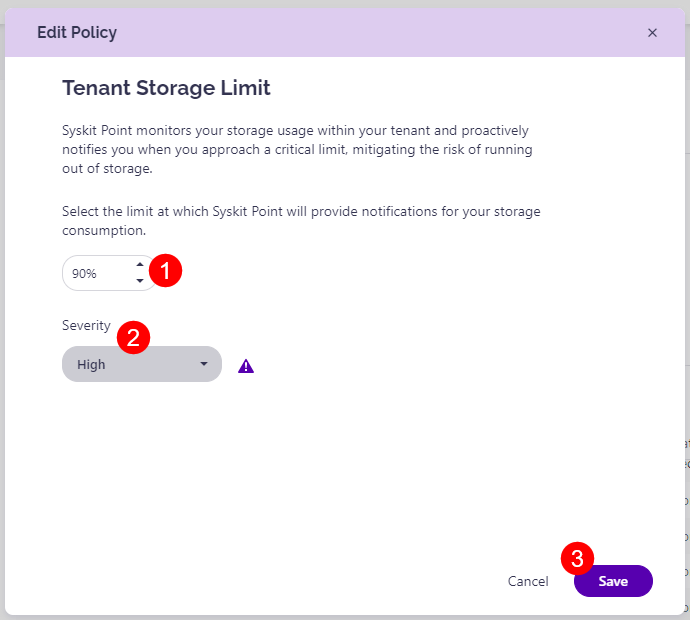
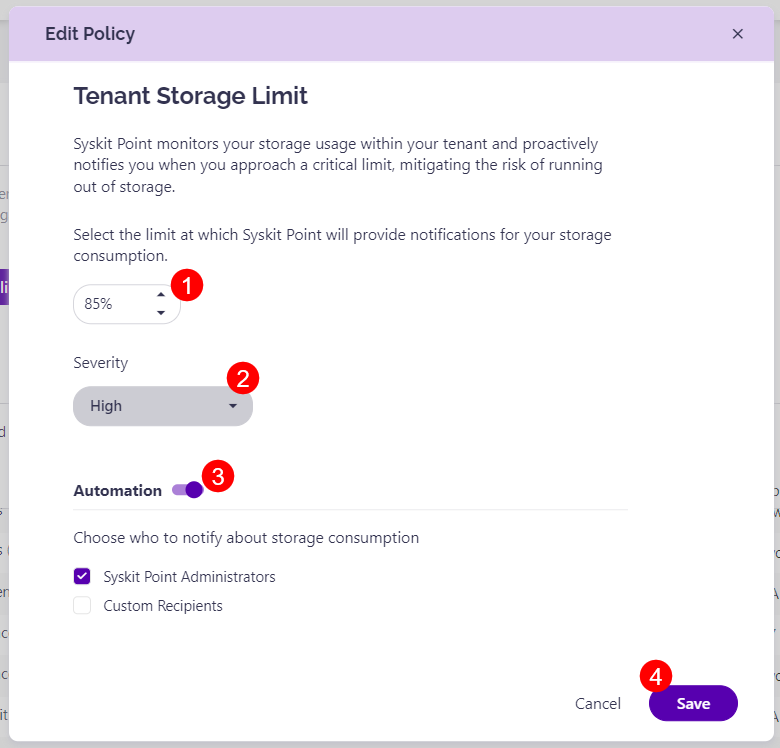
fixes

diff --git a/governance-and-automation/security-compliance-checks/tenant-storage.md b/governance-and-automation/security-compliance-checks/tenant-storage.md
@@ -11,7 +11,7 @@ The purpose of the Tenant Storage Limit check is to **notify you when your stora
 
 The Tenant Storage policy is **a tenant-wide policy, and it can be automated**. When automation is enabled, Syskit Point creates tasks and sends emails to users as defined in the policy settings. To learn more, take a look at the [Tenant Storage Limit policy article](../../governance-and-automation/automated-workflows/tenant-storage-admin.md).
 
-By default, the automation is turned off for this policy, but when the tenant storage limit is exceeded, Syskit Point **detects the policy vulnerability** and shows it on the Security and Compliance dashboard. **This means that Syskit Point detects a vulnerability on a workspace** based on the applied policy, but it does not create tasks or send any emails to workspace owners. 
+By default, the automation is turned on for this policy. If the policy automation is turned off, when the tenant storage limit is exceeded, Syskit Point still **detects the policy vulnerability** and shows it on the Security and Compliance dashboard. **This means that Syskit Point detects a vulnerability on a workspace** based on the applied policy, but if the policy automation is turned off, it does not create tasks or send any emails to workspace owners. 
 
 The purpose of this is to assist Syskit Point admins by
 bringing awareness of potential issues in their Microsoft 365 environment. 

diff --git a/governance-and-automation/automated-workflows/tenant-storage-admin.md b/governance-and-automation/automated-workflows/tenant-storage-admin.md
@@ -19,13 +19,10 @@ The **Edit Policy** pop-up dialog opens where you can:
 * **Select the Severity level (2)**
   * The severity level set by default for this policy is High
   * You can select between three levels of severity: **High, Medium, or Low**
-* **Click the toggle to turn on automation (3)** for the policy
-  * Once automation is enabled you can **choose who to notify** about storage consumptions:
-    * Syskit Point Administrators, or
-    * Custom Recipients 
+* By default, **automation for this policy is turned on** but it can be turned off by clicking the toggle (3)
+  * By default, Syskit Point admins are notified about storage consumptions but you can also select Custom Recipients 
 
-
-Once the policy is set to your preference, **click the Save button (3)** to finalize. 
+Once the policy is set to your preference, **click the Save button (4)** to finalize. 
 
 ![Tenant Storage Limit - Editing the Policy](../../.gitbook/assets/tenant-storage_edit-policy-screen.png)
 
